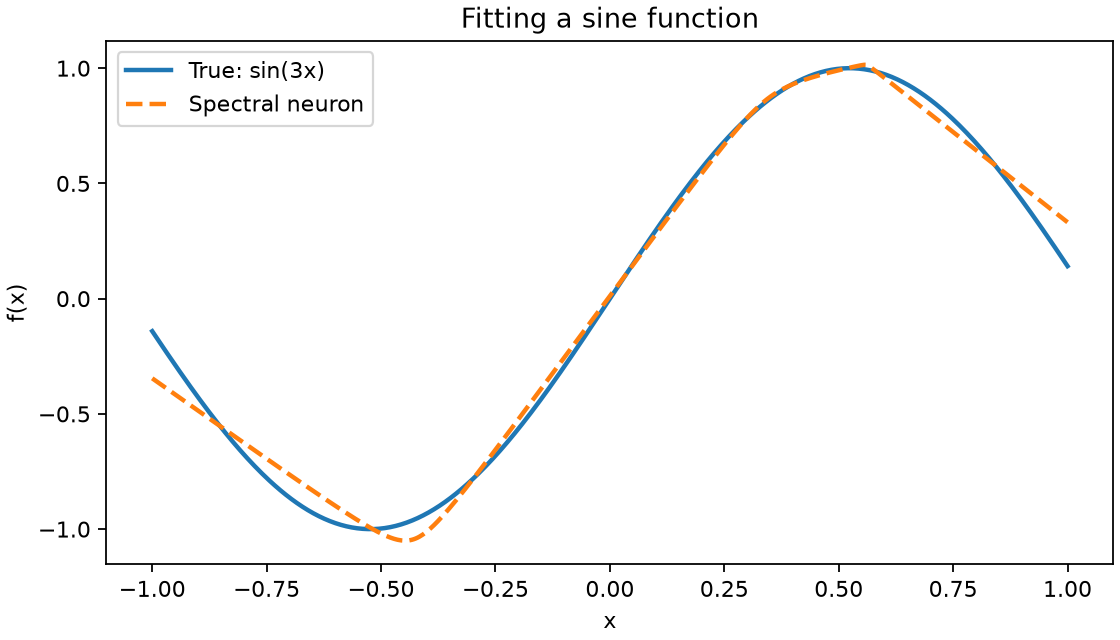
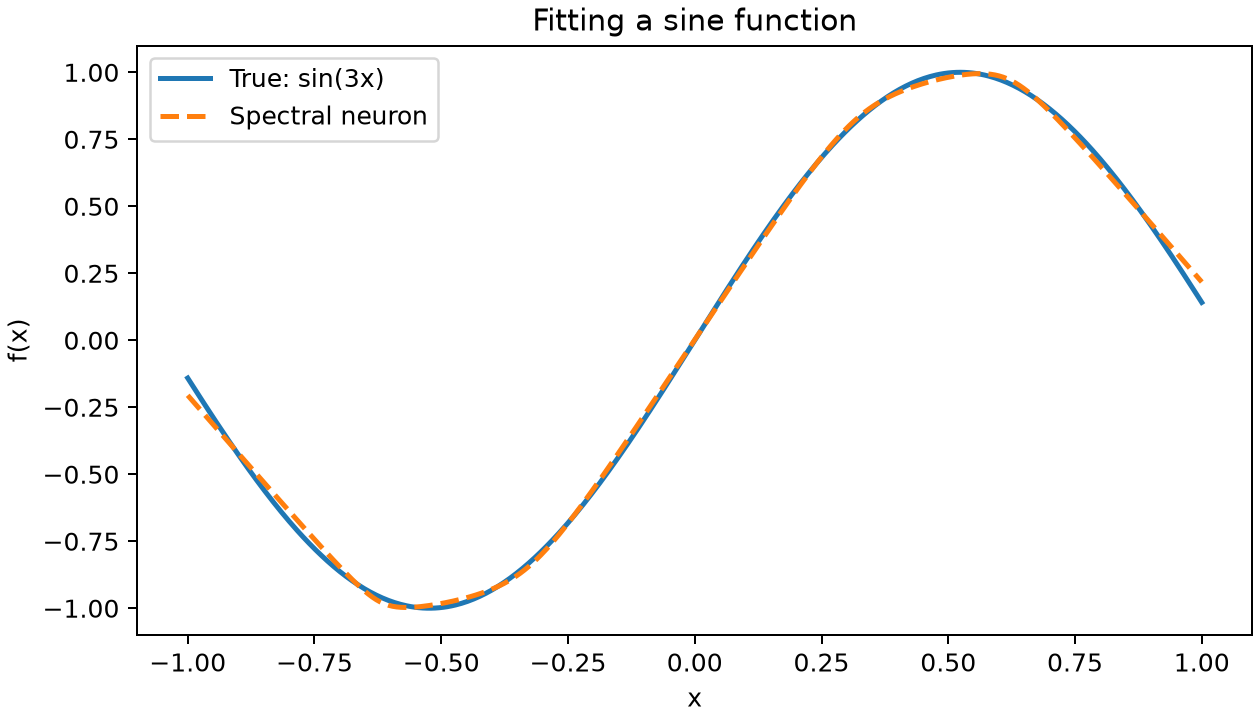
Increase default training budget to 500 epochs

diff --git a/src/spectral_neuron/estimator.py b/src/spectral_neuron/estimator.py
@@ -35,7 +35,7 @@ class SpectralNeuron(ClassNamePrefixFeaturesOutMixin, TransformerMixin, BaseEsti
         each feature's magnitude is at most R.
     learning_rate : float, default=0.01
         Adam step size.
-    max_iter : int, default=200
+    max_iter : int, default=500
         Maximum number of epochs, each visiting every sample once.
     batch_size : int, default=128
         Maximum number of samples per update and evaluation batch.
@@ -89,7 +89,7 @@ class SpectralNeuron(ClassNamePrefixFeaturesOutMixin, TransformerMixin, BaseEsti
     loss: str = "squared_error"
     feature_bound: float | str = "auto"
     learning_rate: float = 0.01
-    max_iter: int = 200
+    max_iter: int = 500
     batch_size: int = 128
     tol: float = 1e-6
     n_iter_no_change: int = 10

diff --git a/src/spectral_neuron/_fitting.py b/src/spectral_neuron/_fitting.py
@@ -133,7 +133,7 @@ class AdamFitter:
     loss: str = "squared_error"
     feature_bound: float = 5.0
     learning_rate: float = 0.01
-    max_iter: int = 200
+    max_iter: int = 500
     batch_size: int = 128
     tol: float = 1e-6
     n_iter_no_change: int = 10

diff --git a/docs/explanation.md b/docs/explanation.md
@@ -59,8 +59,8 @@ the first part exists and the update is ordinary scalar Adam.
 
 Training stops when the combined Frobenius norm of the matrices' net changes
 over an epoch is at most `tol` for `n_iter_no_change` consecutive epochs, or at
-`max_iter`. Set `tol=0` to run the full epoch budget. `loss_curve_` records the
-training loss; the final iterate is retained.
+`max_iter` (500 epochs by default). Set `tol=0` to run the full epoch budget.
+`loss_curve_` records the training loss; the final iterate is retained.
 
 The fitted `model_` contains the parameters needed for prediction, without
 optimizer state. See the [API docstrings](../src/spectral_neuron/estimator.py)

diff --git a/README.md b/README.md
@@ -73,6 +73,9 @@ For classification, `predict_proba(X)` returns probabilities and
 `decision_function(X)` returns logits. `transform(X)` always returns the raw
 eigenvalue as a single feature column, including for classification.
 
+By default, `max_iter=500` allows up to 500 epochs. Training can stop sooner
+when parameter changes stay small; see [training and stopping](docs/explanation.md#stopping-and-prediction).
+
 See `help(SpectralNeuron)` for parameters and fitted attributes, or read the
 [estimator docstring](src/spectral_neuron/estimator.py).
 
